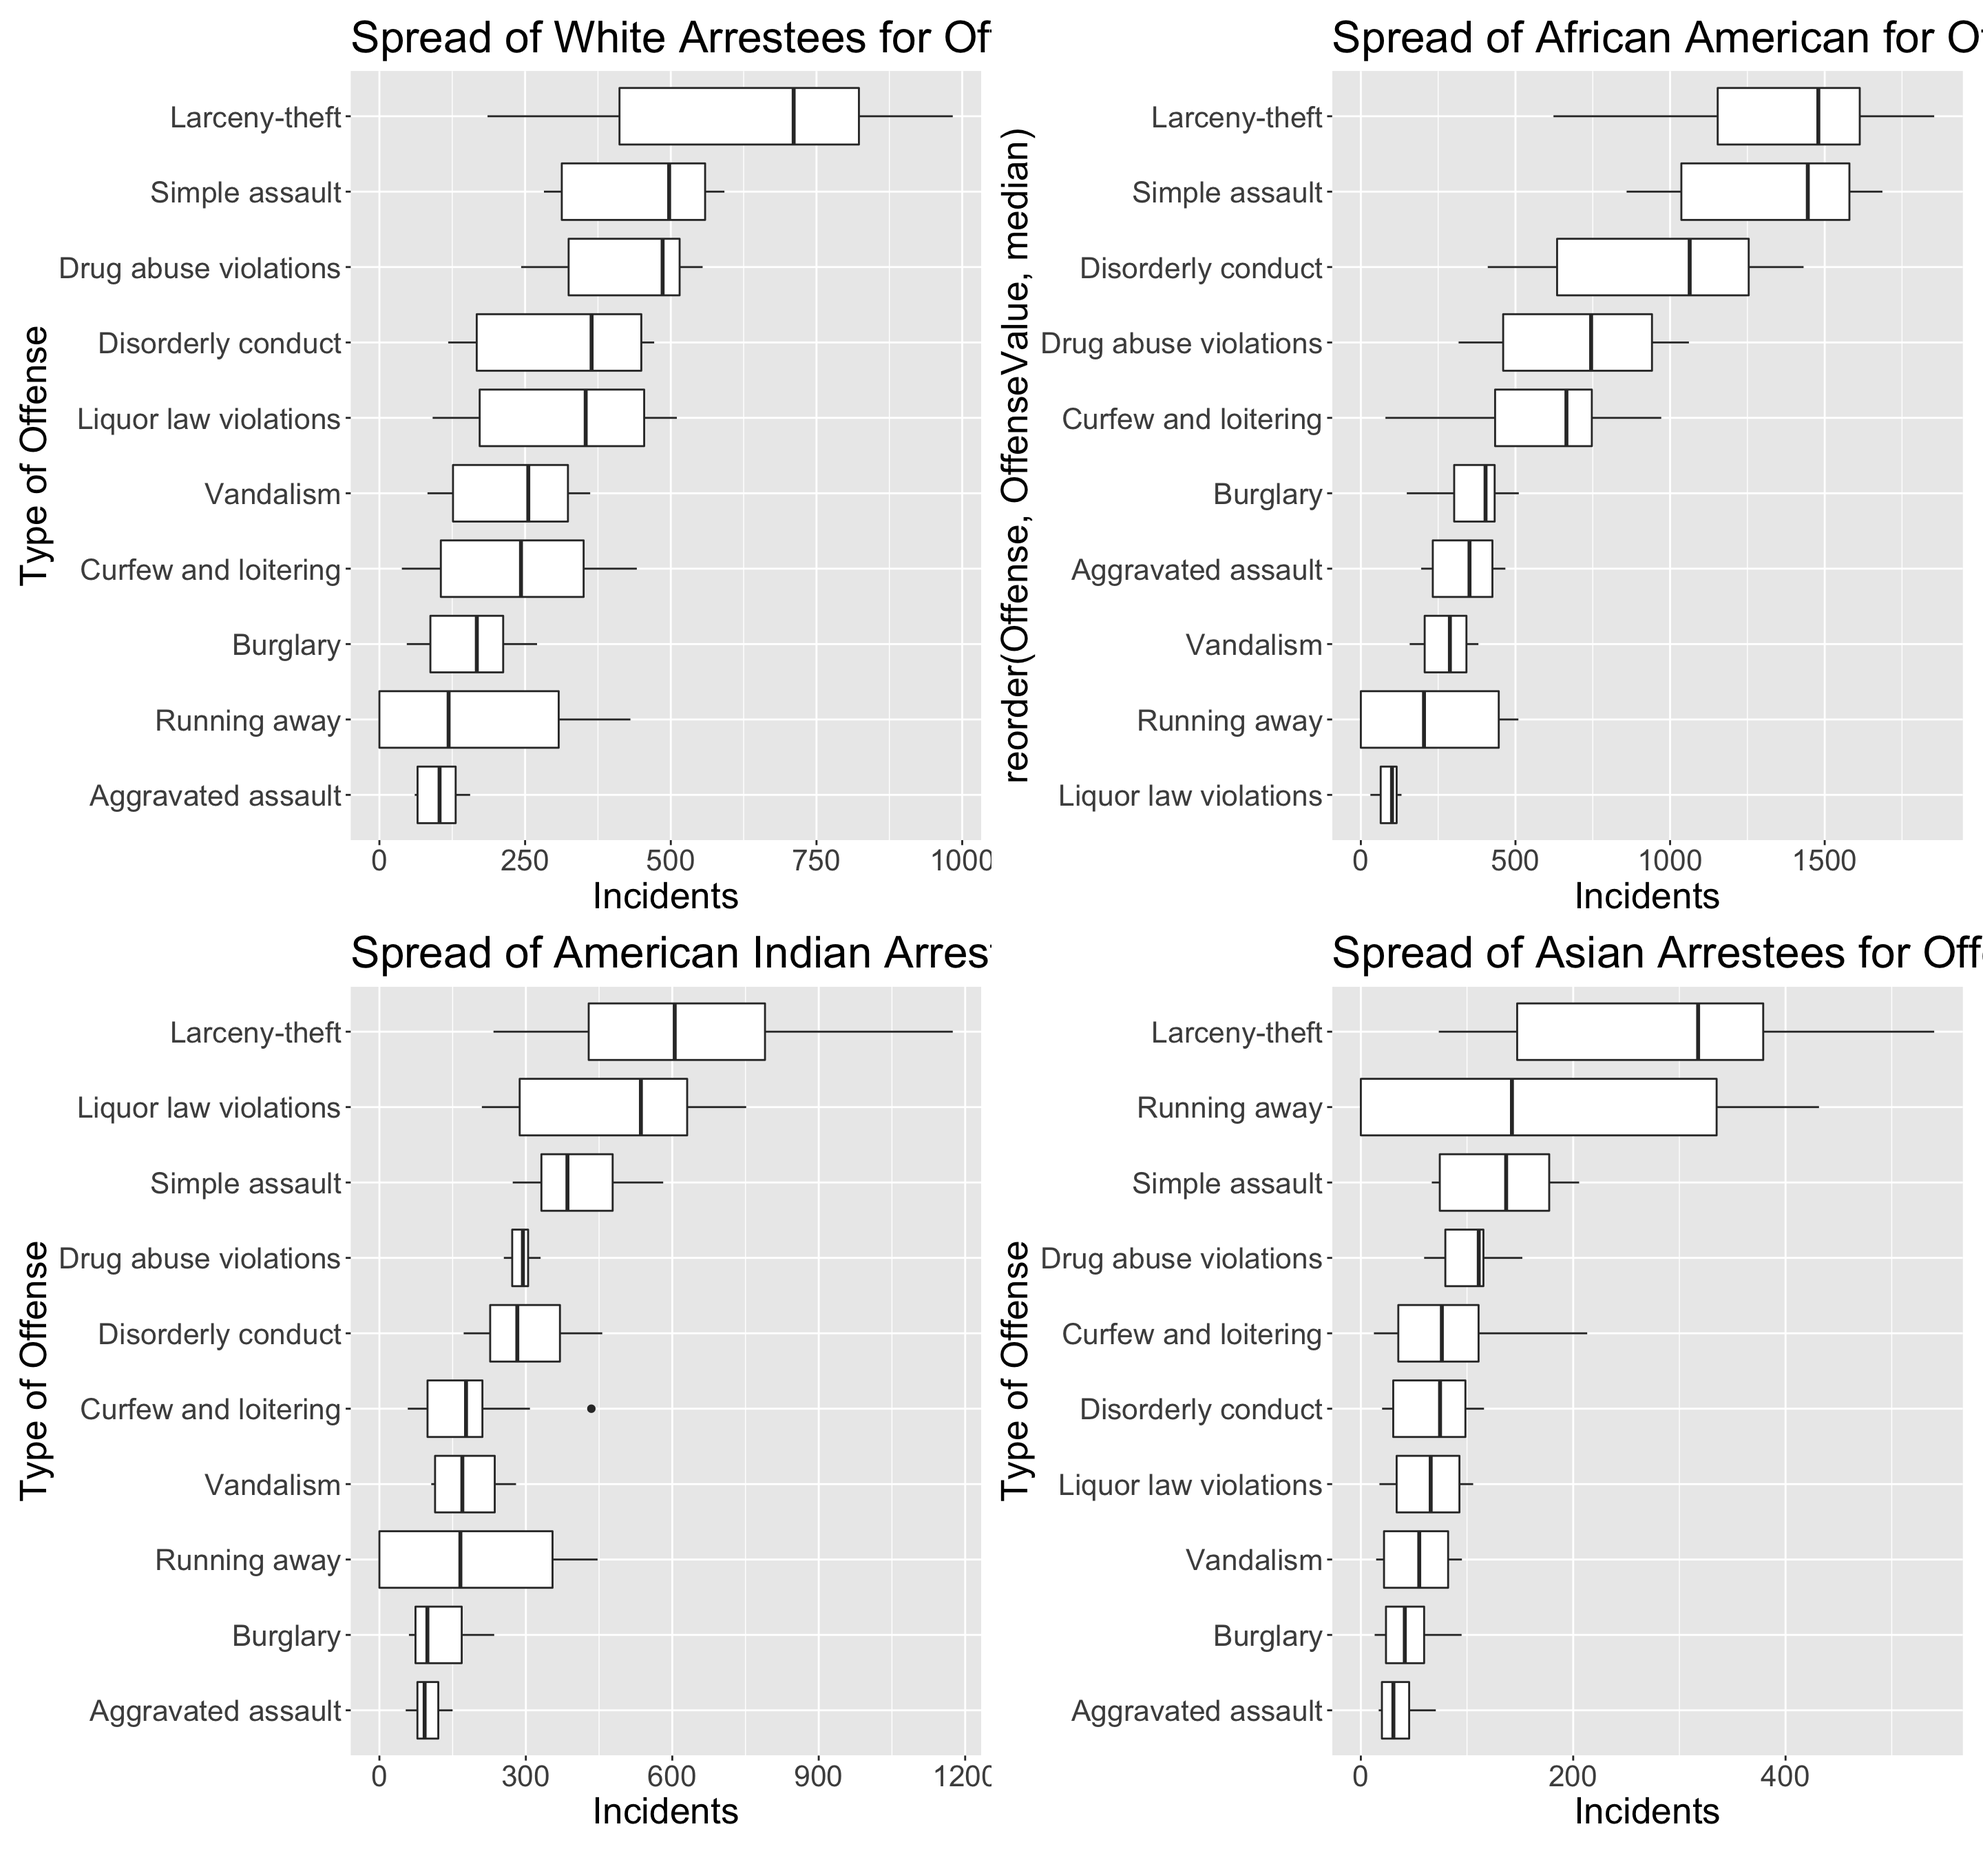
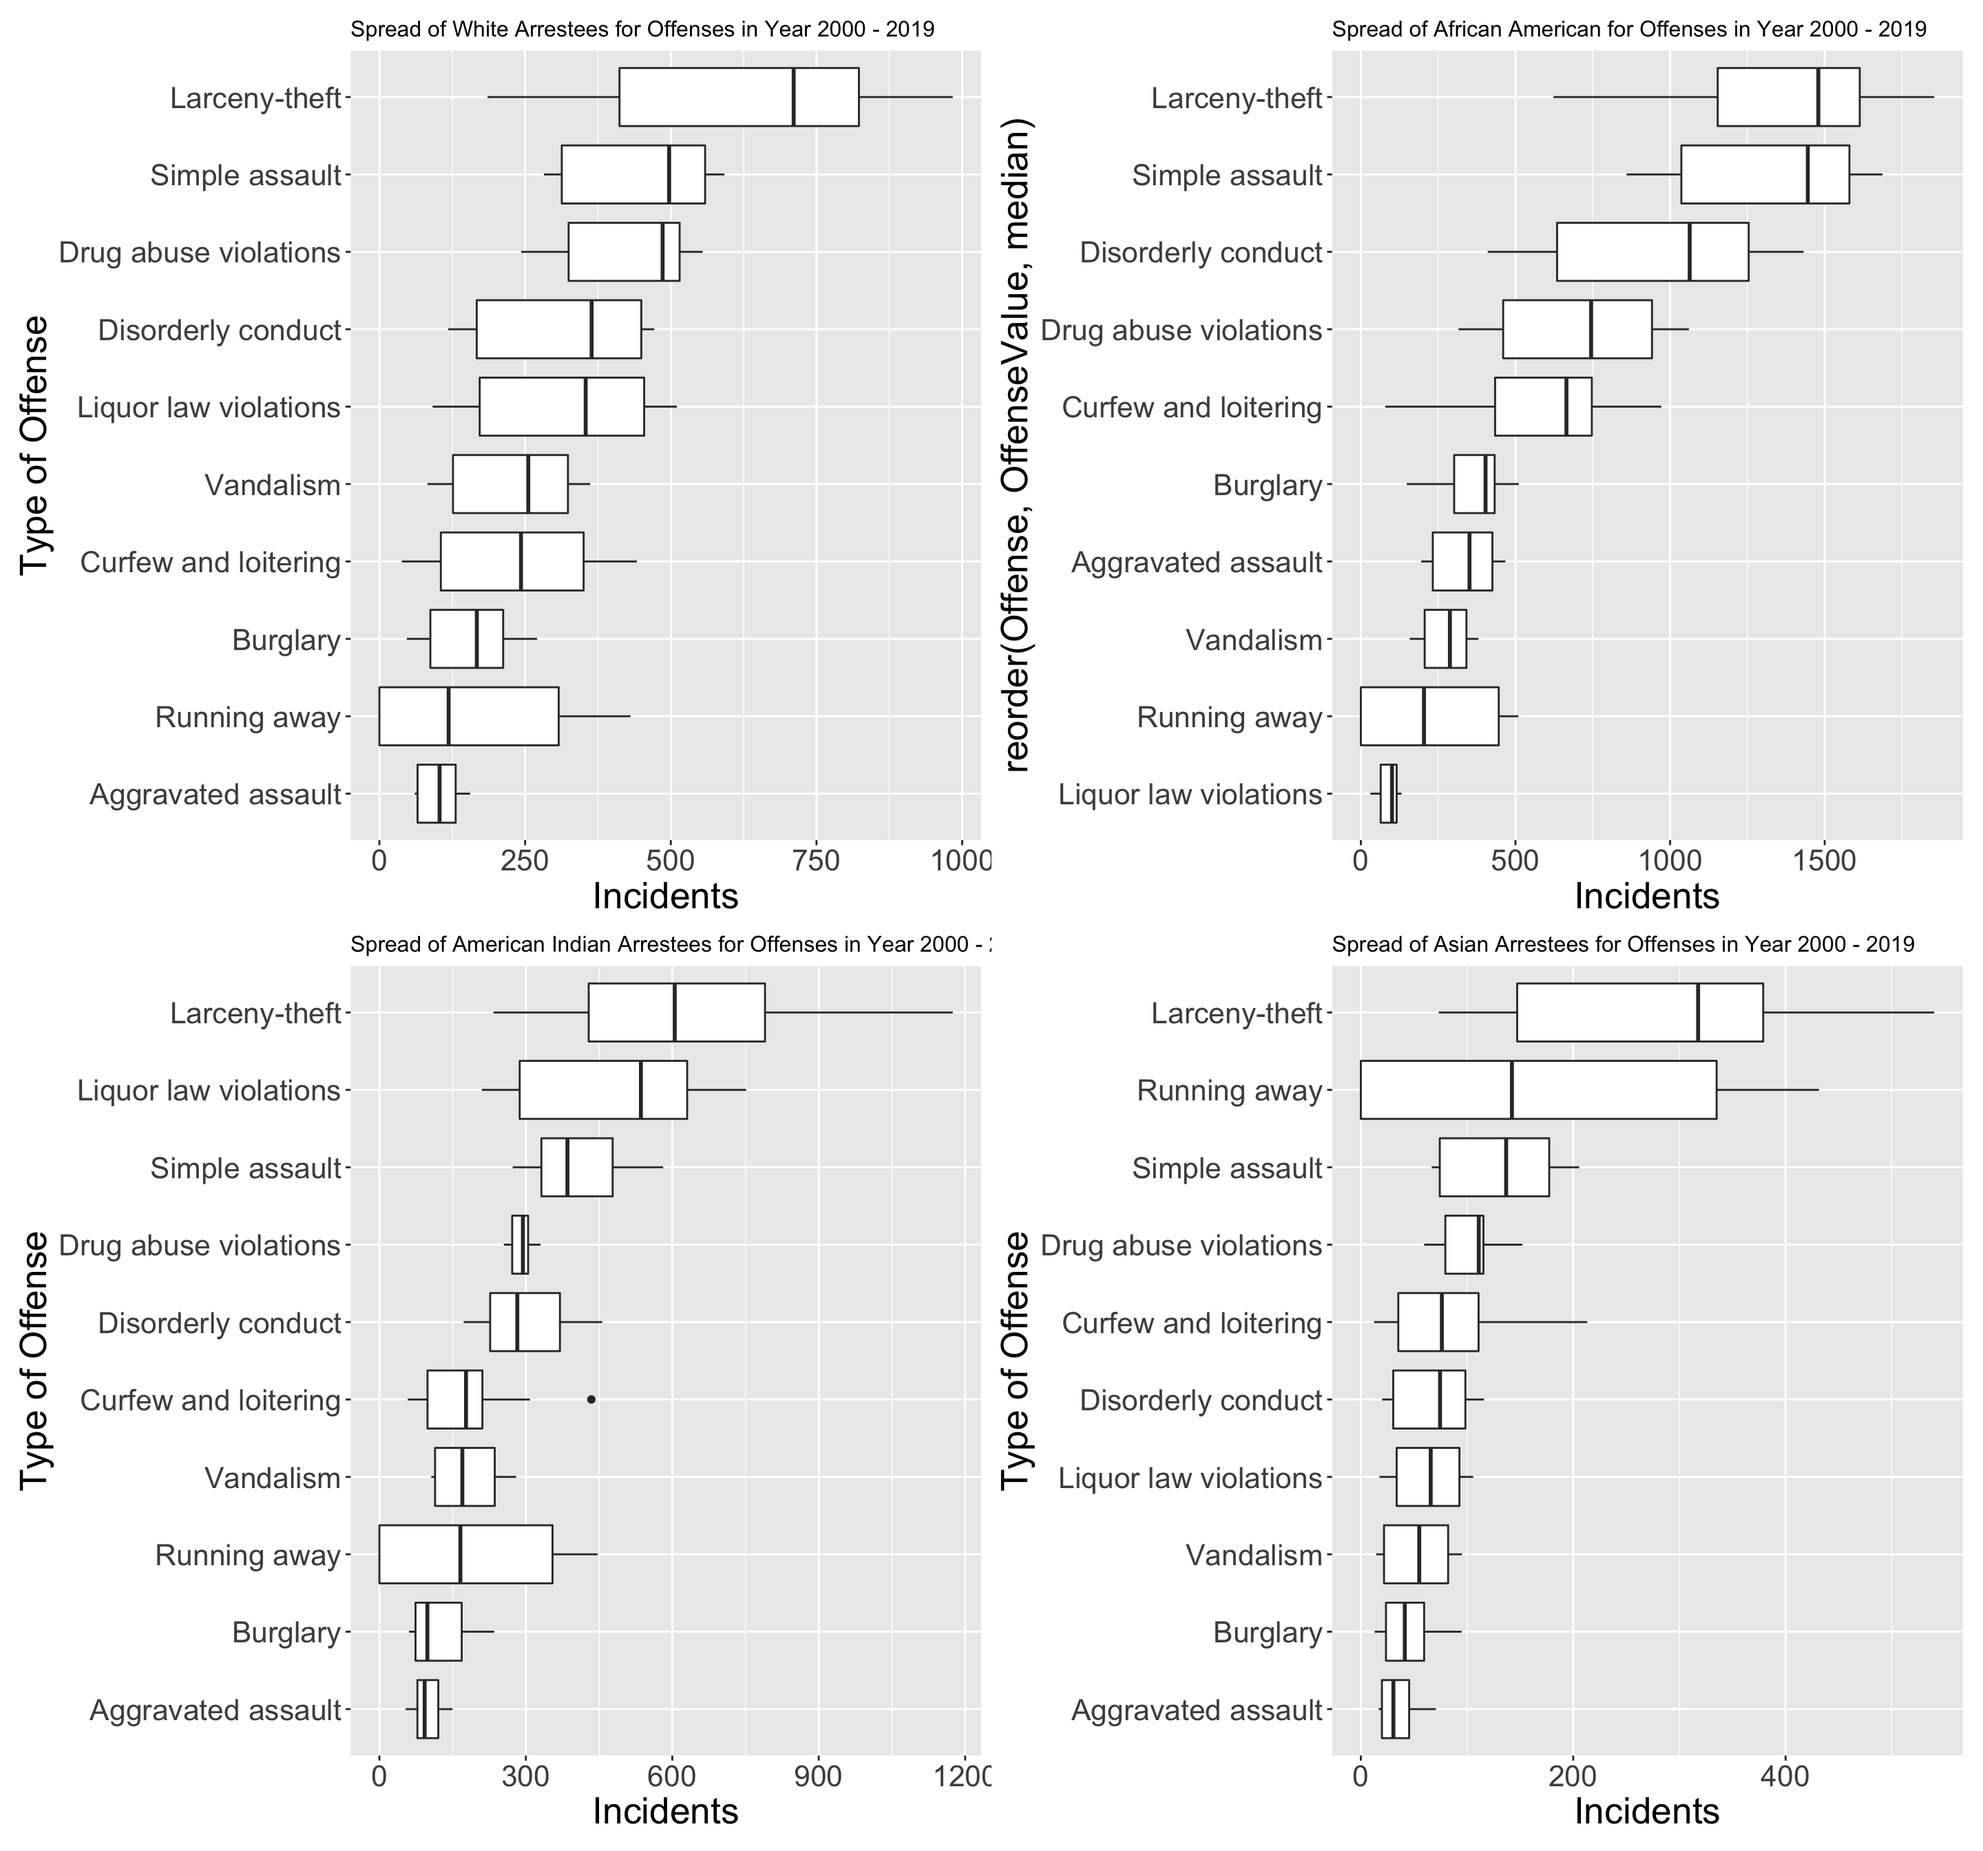
Updated Title Size for BoxPlots

diff --git a/docs/results.html b/docs/results.html
@@ -246,9 +246,9 @@ by females.</p>
 <h2><span class="header-section-number">5.10</span> Top Juvenille Crimes by Race</h2>
 <p><img src="us_crime_analysis_files/figure-html/unnamed-chunk-8-1.png" width="864" /></p>
 <p>The above Radar charts give us a better spatial outlook of the number of crimes (top 5) committed by minors belonging to a particular race.</p>
-<pre><code>## NULL</code></pre>
+<p><img src="us_crime_analysis_files/figure-html/unnamed-chunk-9-1.gif" /><!-- --></p>
 <p><img src="us_crime_analysis_files/figure-html/unnamed-chunk-10-1.png" width="672" /></p>
-<pre><code>## NULL</code></pre>
+<p><img src="us_crime_analysis_files/figure-html/unnamed-chunk-11-1.gif" /><!-- --></p>
 <p><img src="us_crime_analysis_files/figure-html/unnamed-chunk-12-1.png" width="864" /></p>
 
 </div>
